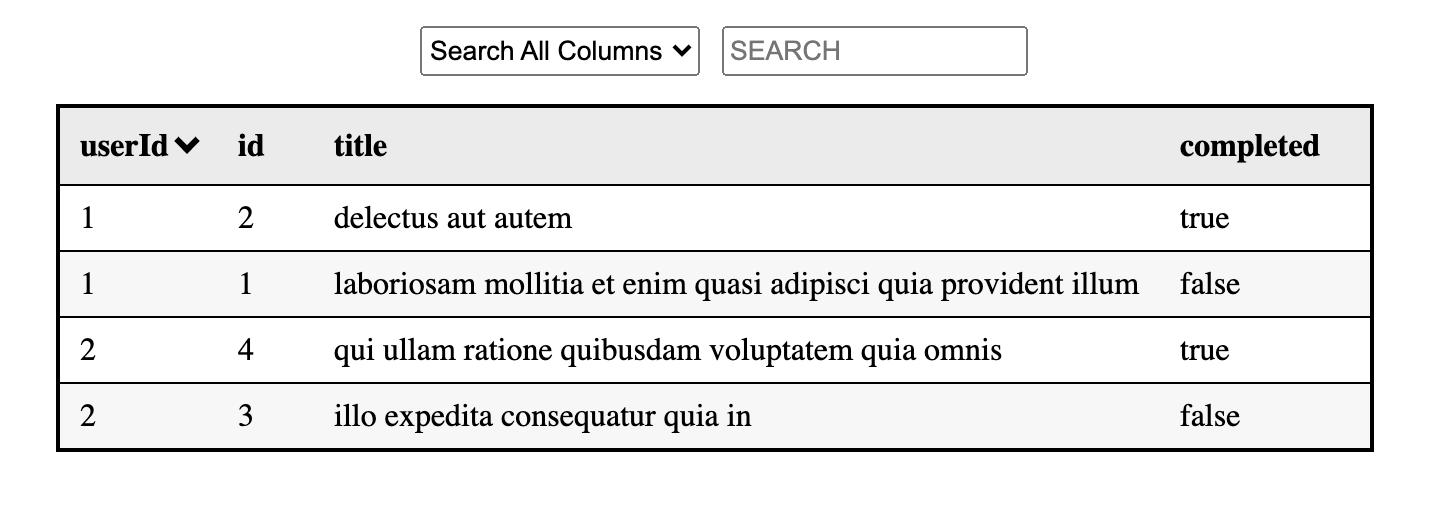
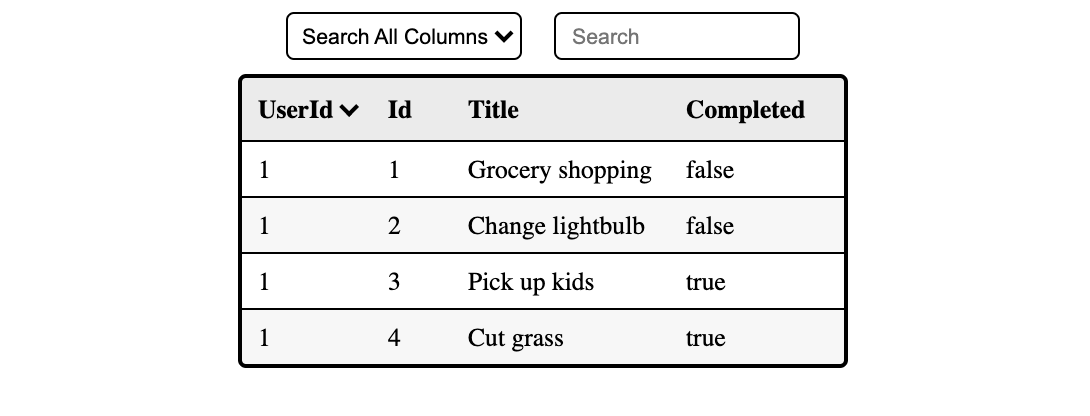
added exclude search option

diff --git a/src/component/index.js b/src/component/index.js
@@ -2,10 +2,10 @@ import React, { useEffect, useState } from "react";
 import "./index.css";
 import Search from "./Search/Search";
 
-const DataTable = ({ data, capitalize }) => {
+const DataTable = ({ data, capitalize, excludeSearch }) => {
     const [normalizedData, setNormalizedData] = useState([]);
     const [displayedData, setDisplayedData] = useState([]);
-    const [fieldSelected, setFieldSelected] = useState("Search All");
+    const [fieldSelected, setFieldSelected] = useState("");
     const [stringSearched, setStringSearched] = useState("");
     const [sort, setSort] = useState({
         field: null,
@@ -147,7 +147,7 @@ const DataTable = ({ data, capitalize }) => {
         let results = [];
         const searchString = stringSearched.toUpperCase();
         for (var i = 0; i < normalizedData.length; i++) {
-            if (fieldSelected === "Search All") {
+            if (fieldSelected === "") {
                 for (let key in normalizedData[i]) {
                     if (
                         normalizedData[i][key]
@@ -186,7 +186,7 @@ const DataTable = ({ data, capitalize }) => {
         if (normalizedData.length !== 0) {
             const keys = Object.keys(normalizedData[0]);
             const searchFields = keys.map((i, index) => {
-                return <option key={`search${index}`}>{i}</option>;
+                return <option key={`search${index + 1}`}>{i}</option>;
             });
             return searchFields;
         }
@@ -242,11 +242,15 @@ const DataTable = ({ data, capitalize }) => {
 
     return (
         <div>
-            <Search
-                handleSearch={handleSearch}
-                toggleColumnsToSearch={toggleColumnsToSearch}
-                handleSearchFieldsChange={handleSearchFieldsChange}
-            />
+            {excludeSearch ? null : (
+                <Search
+                    fieldSelected={fieldSelected}
+                    handleSearch={handleSearch}
+                    toggleColumnsToSearch={toggleColumnsToSearch}
+                    handleSearchFieldsChange={handleSearchFieldsChange}
+                />
+            )}
+
             {renderTableData(displayedData)}
         </div>
     );

diff --git a/src/component/Search/Search.js b/src/component/Search/Search.js
@@ -1,6 +1,7 @@
 import React from "react";
 
 const Search = ({
+    fieldSelected,
     handleSearchFieldsChange,
     toggleColumnsToSearch,
     handleSearch,
@@ -8,13 +9,15 @@ const Search = ({
     return (
         <div className="rsearchContainer">
             <select onChange={handleSearchFieldsChange} className="rdropdown">
-                <option key="searchAll">Search All Columns</option>
+                <option value="" key="0">
+                    Search All Columns
+                </option>
                 {toggleColumnsToSearch()}
             </select>
             <input
                 className="rsearchBox"
                 onChange={(e) => handleSearch(e)}
-                placeholder="SEARCH"
+                placeholder={`Search ${fieldSelected}`}
             ></input>
         </div>
     );

diff --git a/src/component/index.css b/src/component/index.css
@@ -105,7 +105,8 @@
 
 .rdropdown {
     height: 30px;
-    width: 200px;
+    padding-left: 5px;
+    max-width: 200px;
     margin: 0px 10px;
     border-radius: 5px;
     border: solid 1px #000000;
@@ -114,10 +115,10 @@
 
 .rsearchBox {
     height: 25px;
-    width: 200px;
+    max-width: 200px;
     margin: 0px 10px;
     border-radius: 5px;
     border: solid 1px #000000;
-    padding: 1px 5px;
+    padding: 1px 10px;
     color: #000000;
 }

diff --git a/src/index.js b/src/index.js
@@ -1,5 +1,8 @@
-import React from "react";
-import ReactDOM from "react-dom";
-import App from "./App";
+import React from 'react';
+import ReactDOM from 'react-dom';
+import App from './App';
 
-ReactDOM.render(<App className="App" />, document.getElementById("root"));
+ReactDOM.render(
+    <App className="App"/>,
+  document.getElementById('root')
+);

diff --git a/src/App.js b/src/App.js
@@ -1,9 +1,9 @@
 import React from "react";
 import DataTable from "./component";
-const mockData = require("./mockData.json");
+const mockData = require("./mockData/mockDataWithObject.json");
 
 const App = () => {
-    return <DataTable data={mockData} />;
+    return <DataTable data={mockData} capitalize />;
 };
 
 export default App;

diff --git a/src/component/index.test.js b/src/component/index.test.js
@@ -1,5 +1,5 @@
-const DataTable = require('./index')
+const DataTable = require("./index");
 
 test("Exists", () => {
-    expect(DataTable.exists)
-})
+    expect(DataTable.exists);
+});

diff --git a/README.md b/README.md
@@ -1,27 +1,31 @@
 # RetracTable
 
-This project is a scalable, lightwight, zero dependency, react.js table. All that you have to do create a `Table` element and pass an array of objects to it as the `data` prop.
+This project is a scalable, lightwight, zero dependency, react.js table. All that you have to do is create a `Table` element and pass an array of objects to it as the `data` prop.
 
 Robust features like sorting and searching are build in. Just give it a try.
 
 <br>
 
 ### Get Started
+
 ```sh
 npm i retractable
 ```
 
-### Useage
+### Usage
+
 ```js
-import React from 'react';
-import Table from 'retractable';
-const myData = require('./myData.json')
+import React from "react";
+import Table from "retractable";
+
+const people = [
+    { name: "Mark", age: 25 },
+    { name: "John", age: 52 },
+];
 
 const App = () => {
-    return (
-        <Table data={myData}/>
-    )
-}
+    return <Table data={people} />;
+};
 
 export default App;
 ```
@@ -36,17 +40,66 @@ export default App;
 
 ![Eample](./public/objectExample.png)
 
+<hr>
 <br>
 
-## Props
+# Props
 
-`capitalize` : This prop will capitalize the first letter of each column header when set to true.
-- default: false
-- required: false
-- options: true/false
-- useage: 
+| Prop Name                       | Required | Default | Usage                                      |
+| ------------------------------- | -------- | ------- | ------------------------------------------ |
+| [data](#data)                   | True     |         | [See `data` below](#data)                  |
+| [capitalize](#capitalize)       | False    | False   | [See `capitalize` below](#capitalize)      |
+| [excludeSearch](#excludeSearch) | False    | False   | [See `excludeSearch` below](#excludeSearch) |
+
+<hr>
+<br>
+
+## `data`
+
+This prop must contain an array of objects that you would like to make up your table.
+
+-   required: `true`
+-   default: `null`
+-   options: `[{},{},...]`
+-   usage:
+
+```js
+const people = [
+    { name: "Mark", age: 25 },
+    { name: "John", age: 52 },
+];
+
+const App = () => {
+    return <Table data={people} />;
+};
+```
+
+## `capitalize`
+
+This prop will capitalize the first letter of each column header when set to true.
+
+-   required: `false`
+-   default: `false`
+-   options: `true/false`
+-   usage:
+
 ```js
 return(
-    <Table data={data} capitalize>
+    <Table data={people} capitalize>
+)
+```
+
+## `excludeSearch`
+
+This prop will exclude the search feature from the table when set to true.
+
+-   required: `false`
+-   default: `false`
+-   options: `true/false`
+-   usage:
+
+```js
+return(
+    <Table data={people} excludeSearch>
 )
 ```
